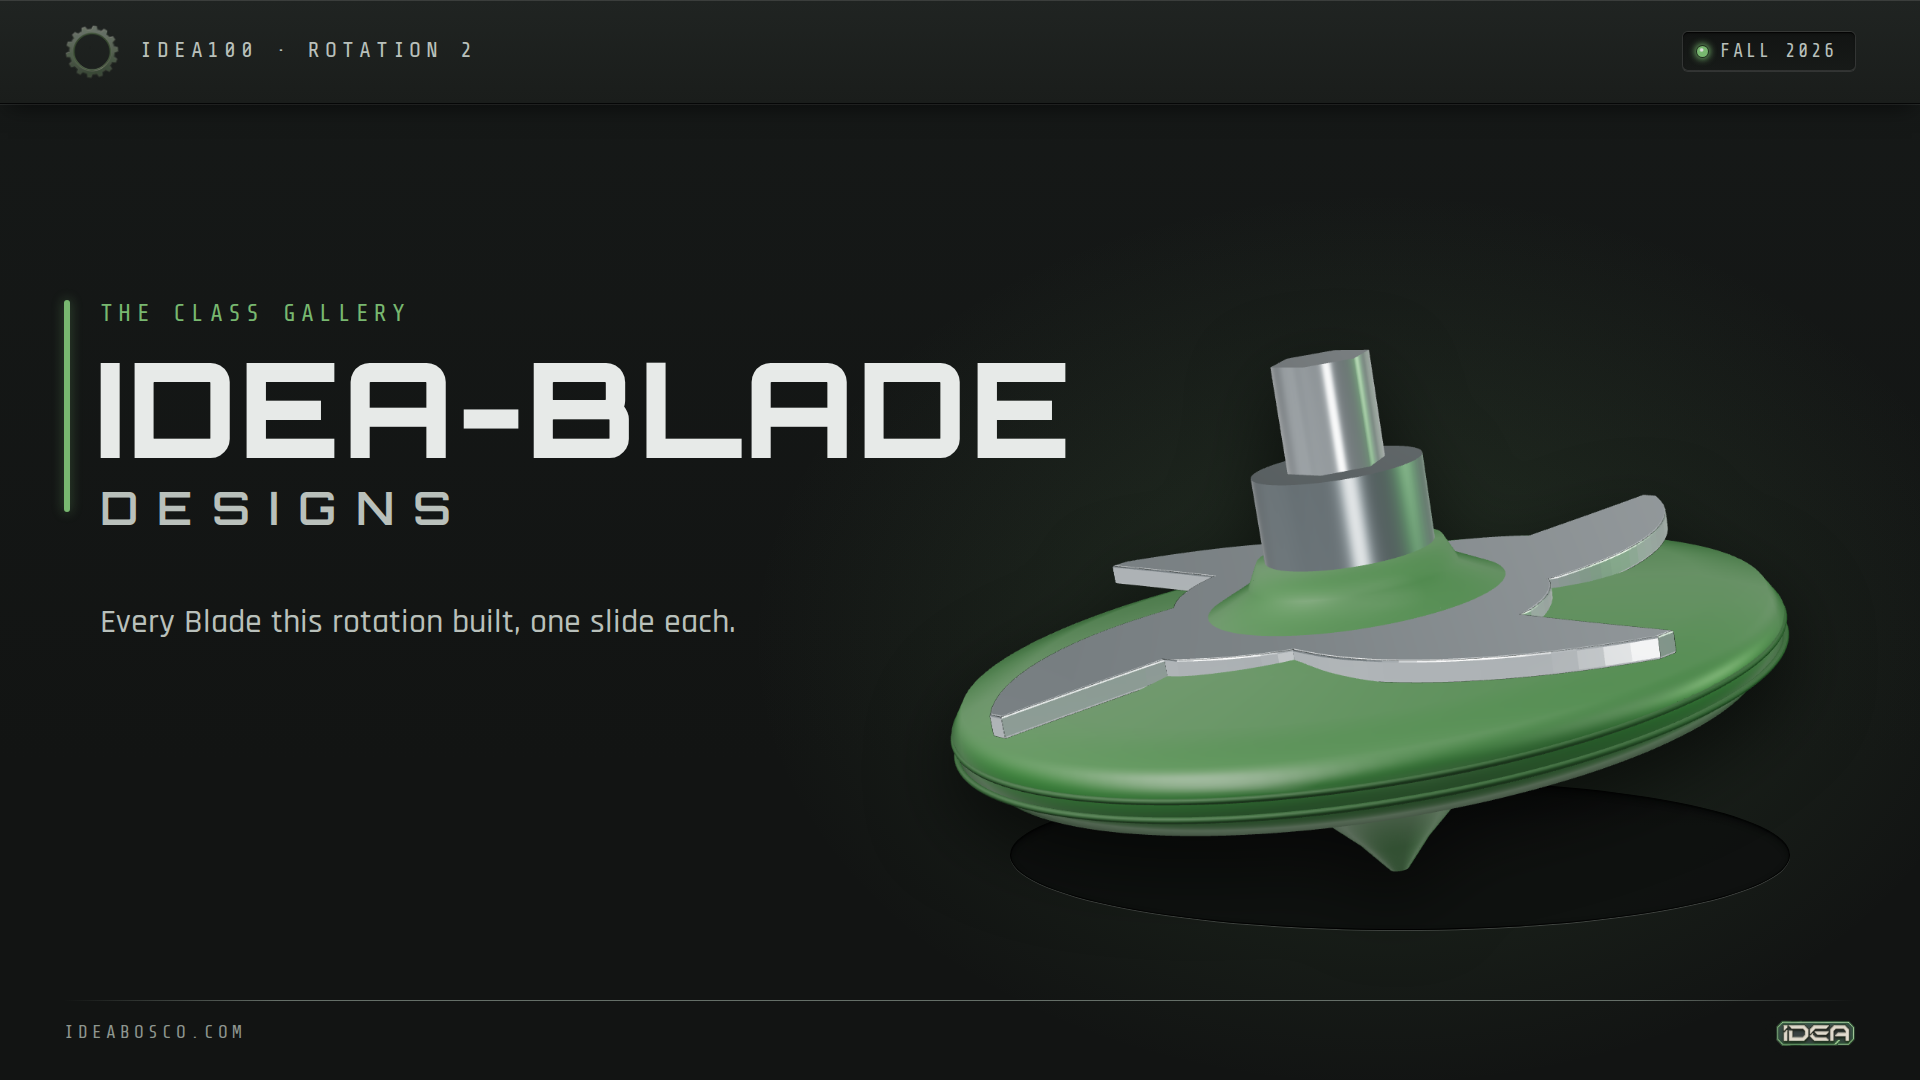
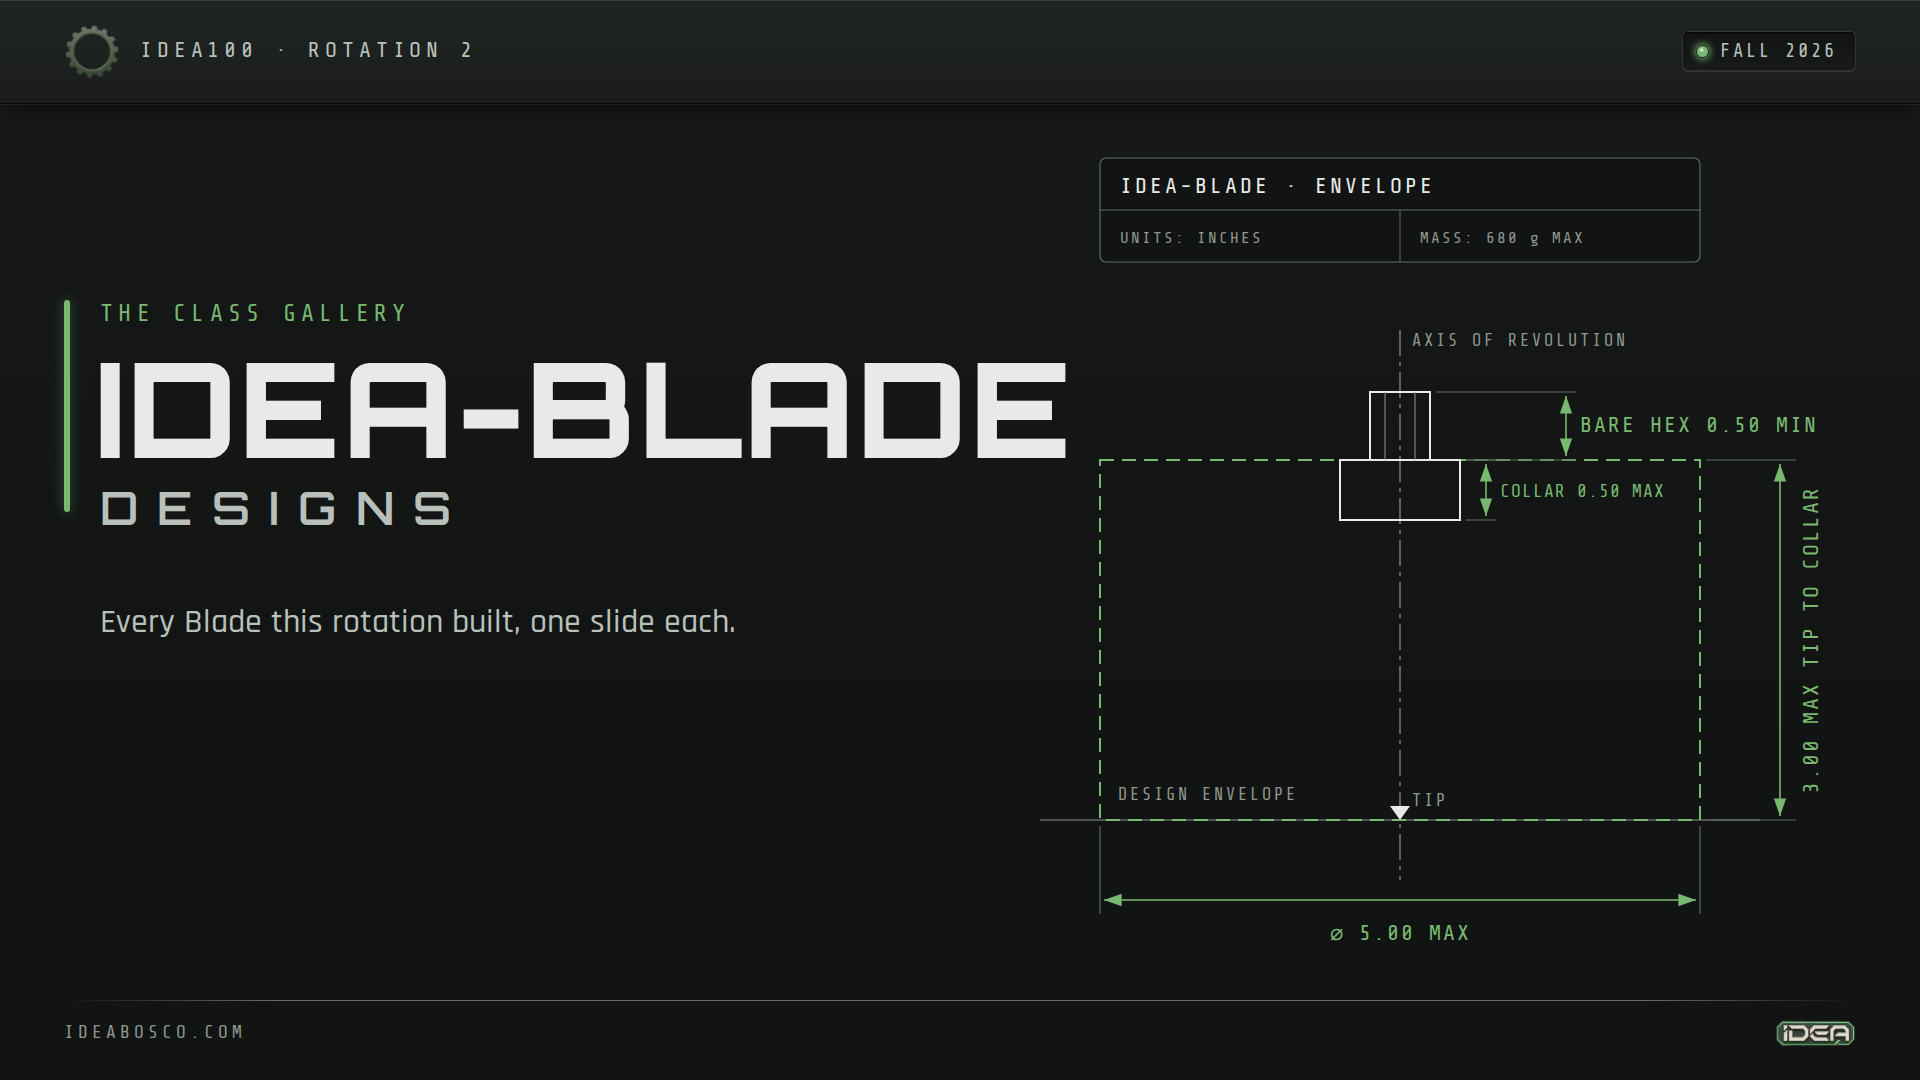
IDEA-Blade deck title draws the rule envelope instead of a render (ledger 0382)
Claude-Session: https://claude.ai/code/session_01NR3uqvqQgRcJ76aLTsC3UB

diff --git a/docs/decks/ideablade/slides.html b/docs/decks/ideablade/slides.html
@@ -43,7 +43,6 @@ body{width:1920px;height:1080px;background:transparent;overflow:hidden}
 
 <!-- TITLE -->
 <section class="slide" id="title">
- <div style="position:absolute;inset:0;background:radial-gradient(ellipse 900px 640px at 1380px 640px,rgba(120,184,112,.16),transparent 70%)"></div>
  <div class="strip"></div>
  <img src="gear.png" style="position:absolute;left:64px;top:24px;width:56px;height:56px">
  <div class="mono" style="position:absolute;left:140px;top:38px;font-size:22px">IDEA100 · Rotation 2</div>
@@ -53,8 +52,49 @@ body{width:1920px;height:1080px;background:transparent;overflow:hidden}
  <div style="position:absolute;left:96px;top:342px;font-family:Orbitron;font-weight:800;font-size:132px;line-height:1;letter-spacing:.02em">IDEA-BLADE</div>
  <div style="position:absolute;left:100px;top:478px;font-family:Orbitron;font-weight:600;font-size:46px;letter-spacing:.42em;color:var(--caption)">DESIGNS</div>
  <div style="position:absolute;left:100px;top:600px;width:700px;font-size:34px;font-weight:500;line-height:1.3;color:var(--caption)">Every Blade this rotation built, one slide each.</div>
- <div class="well" style="left:1010px;top:780px;width:780px;height:150px;border-radius:50%;opacity:.9"></div>
- <img src="hero.png" style="position:absolute;left:880px;top:150px;width:1040px;height:1040px;object-fit:contain;filter:drop-shadow(0 30px 40px rgba(0,0,0,.6))">
+
+ <svg style="position:absolute;left:0;top:0" width="1920" height="1080" viewBox="0 0 1920 1080" font-family="Share Tech Mono">
+  <defs><marker id="ar" viewBox="0 0 10 10" refX="10" refY="5" markerWidth="11" markerHeight="11" orient="auto-start-reverse"><path d="M0,1.5 L10,5 L0,8.5 z" fill="#78b870"/></marker></defs>
+  <g stroke="#8e968f" fill="none" stroke-width="1.6">
+   <line x1="1400" y1="330" x2="1400" y2="880" stroke-dasharray="26 6 4 6" stroke-width="1.2"/>
+   <line x1="1040" y1="820" x2="1760" y2="820" stroke-width="1.2"/>
+   <rect x="1100" y="460" width="600" height="360" stroke="#78b870" stroke-width="2" stroke-dasharray="14 8"/>
+   <rect x="1340" y="460" width="120" height="60" stroke="#e7eae8" stroke-width="2"/>
+   <rect x="1370" y="392" width="60" height="68" stroke="#e7eae8" stroke-width="2"/>
+   <line x1="1385" y1="392" x2="1385" y2="460" stroke-width="1"/><line x1="1415" y1="392" x2="1415" y2="460" stroke-width="1"/>
+   <path d="M1400 820 l-10 -14 h20 z" fill="#e7eae8" stroke="none"/>
+  </g>
+  <g stroke="#5e6862" stroke-width="1.2">
+   <line x1="1100" y1="826" x2="1100" y2="914"/><line x1="1700" y1="826" x2="1700" y2="914"/>
+   <line x1="1706" y1="460" x2="1796" y2="460"/><line x1="1706" y1="820" x2="1796" y2="820"/>
+   <line x1="1466" y1="460" x2="1496" y2="460"/><line x1="1466" y1="520" x2="1496" y2="520"/>
+   <line x1="1436" y1="392" x2="1576" y2="392"/><line x1="1466" y1="460" x2="1576" y2="460"/>
+  </g>
+  <g stroke="#78b870" stroke-width="1.6">
+   <line x1="1104" y1="900" x2="1696" y2="900" marker-start="url(#ar)" marker-end="url(#ar)"/>
+   <line x1="1780" y1="464" x2="1780" y2="816" marker-start="url(#ar)" marker-end="url(#ar)"/>
+   <line x1="1486" y1="464" x2="1486" y2="516" marker-start="url(#ar)" marker-end="url(#ar)"/>
+   <line x1="1566" y1="396" x2="1566" y2="456" marker-start="url(#ar)" marker-end="url(#ar)"/>
+  </g>
+  <g fill="#78b870" font-size="22" letter-spacing="2">
+   <text x="1400" y="940" text-anchor="middle">&#8960; 5.00 MAX</text>
+   <text transform="translate(1818 640) rotate(-90)" text-anchor="middle">3.00 MAX  TIP TO COLLAR</text>
+   <text x="1500" y="497" font-size="18" letter-spacing="1">COLLAR 0.50 MAX</text>
+   <text x="1580" y="432">BARE HEX 0.50 MIN</text>
+  </g>
+  <g fill="#8e968f" font-size="17" letter-spacing="3">
+   <text x="1412" y="346">AXIS OF REVOLUTION</text>
+   <text x="1412" y="806">TIP</text>
+   <text x="1118" y="800">DESIGN ENVELOPE</text>
+  </g>
+  <g transform="translate(1100 158)">
+   <rect width="600" height="104" rx="6" fill="#121413" stroke="#5e6862" stroke-width="1.2"/>
+   <line x1="0" y1="52" x2="600" y2="52" stroke="#5e6862" stroke-width="1"/><line x1="300" y1="52" x2="300" y2="104" stroke="#5e6862" stroke-width="1"/>
+   <text x="20" y="35" fill="#e7eae8" font-size="22" letter-spacing="3">IDEA-BLADE · ENVELOPE</text>
+   <text x="20" y="85" fill="#8e968f" font-size="16" letter-spacing="2">UNITS: INCHES</text>
+   <text x="320" y="85" fill="#8e968f" font-size="16" letter-spacing="2">MASS: 680 g MAX</text>
+  </g>
+ </svg>
  <div class="rule" style="left:64px;right:64px;top:1000px"></div>
  <div class="mono" style="position:absolute;left:64px;top:1022px;font-size:18px;color:#8e968f">ideabosco.com</div>
  <img src="logo.png" style="position:absolute;right:64px;top:1012px;height:44px">

diff --git a/docs/decks/ideablade/README.md b/docs/decks/ideablade/README.md
@@ -7,9 +7,9 @@ types is a Slides text box on top, never baked into these.
 
 - `title.png`, `tpl.png`: 1920x1080 slide backgrounds (title, and the per-Blade template).
 - `tag.png`: the "Template" lamp chip, a separate image students delete from their copy.
-- `hero.png`: the spin-top render on the title slide, an illustration, not a real Blade.
+- The title slide's drawing is the rules as an envelope (5.00 across, 3.00 tip to collar, collar
+  0.50 max, bare hex 0.50 min, 680 g), drawn in SVG inside `slides.html`. No invented Blade.
 
-To redraw: symlink `node_modules` to a folder holding `three` (0.170) and `fonts` to
-`node_modules/@fontsource`, then `python3 shoot_hero.py` and `python3 shoot_slides.py`
+To redraw: symlink `fonts` to `node_modules/@fontsource`, then `python3 shoot_slides.py`
 (Playwright with its Chromium). `slides.html` also reads `gear.png` and `logo.png`: copy
 `static/IDEA/idea-gear-240.png` and `static/IDEA/idea-logo-text-1024.png` beside it under those names.
